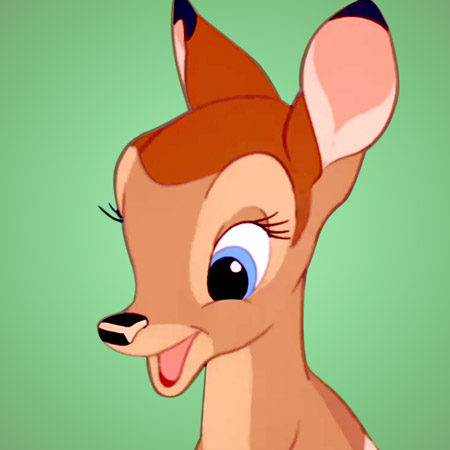
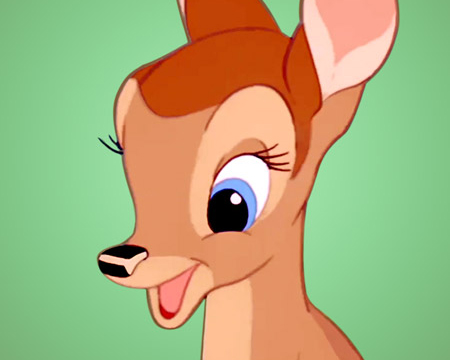
Cropped actor faces. and added the pictures to the doc/

diff --git a/christopherrobins.html b/christopherrobins.html
@@ -36,9 +36,8 @@
 			}">>
 			</div>
 			<!-- Dvd Cover -->
-			<div class="dvdcover mx-3 w-24 h-32 bg-green">
-			
-
+			<div class="dvdcover mx-3 w-24 h-32">
+				<img style="background-image: url('https://tailwindcss.com/img/card-left.jpg' src="imgs/crdvdcover.jpg">
 			</div>
 			<div class="flex bg-black flex-col w-2/3 text-white"> <!-- description -->
 				<span class="text-yellow"><h3>Christopher Robins</h3></span>
@@ -85,18 +84,22 @@
 			<span class="font-bold">Characters:</span>
 			<!-- character row -->
 			<div class="flex w-full h-12 w-auto rounded items-center underline mt-2 py-2">
-				<div class="flex bg-grey-lightest rounded-full h-12 w-12"></div> 
+				<div class="flex h-12 w-12">
+					<img class="rounded-full"src="imgs/ewan.jpg">
+				</div> 
 				<a href="#" class="text-yellow p-1">Ewan McGregor</a> |
 				<a href="#" class="text-white p-1">Christopher Robin</a>
 			</div>
 			<div class="flex w-full h-12 w-auto rounded items-center underline mt-2 py-2">
-				<div class="flex bg-grey-lightest rounded-full h-12 w-12"></div> 
-				<a href="#" class="text-yellow p-1">Hayley Atwell</a> |
+				<div class="flex h-12 w-12">
+					<img class="rounded-full"src="imgs/hayley.jpg">
+				</div> 				<a href="#" class="text-yellow p-1">Hayley Atwell</a> |
 				<a href="#" class="text-white p-1">Evelyn Robin</a>
 			</div>
 			<div class="flex w-full h-12 w-auto rounded items-center underline mt-2 py-2">
-				<div class="flex bg-grey-lightest rounded-full h-12 w-12"></div> 
-				<a href="#" class="text-yellow p-1">Jim Cummings</a> |
+				<div class="flex h-12 w-12">
+					<img class="rounded-full"src="imgs/jim.jpg">
+				</div> 				<a href="#" class="text-yellow p-1">Jim Cummings</a> |
 				<a href="#" class="text-white p-1">Winnie The Pooh (Voice)</a>
 			</div>
 			<a href="#" class="text-yellow p-1 mt-2">More</a>
@@ -118,17 +121,18 @@
 		</div>
 		<!-- Scene Selectione -->
 		<div class="bg-black flex w-screen p-4 flex-col text-white border border-b-2 border-grey-dark"> <!-- Halp why is the border broken? -->
+			<!-- todo - fix the side to side thing.-->
 			<span class="font-bold">Scene Selection:</span>
 			<div class="flex flex-wrap justify-between">
-				<div class="flex bg-grey-lightest h-32 w-64 items-center justify-center overflow-hidden rounded mt-2 relative">
+				<div class="flex bg-grey-lightest h-32 w-64 mx-auto items-center justify-center overflow-hidden rounded mt-2 relative">
 					<img class="w-full block rounded-t absolute"src="imgs/sg/sg1.png">
 					<div class="flex bg-black pin-b pin-l rounded-br-sm p-1 opacity-75 absolute"> 15:00</div>
 				</div>
-				<div class="flex bg-grey-lightest h-32 w-64 items-center justify-center overflow-hidden rounded mt-2 relative">
+				<div class="flex bg-grey-lightest h-32 w-64 mx-auto items-center justify-center overflow-hidden rounded mt-2 relative">
 					<img class="w-full block rounded-t absolute"src="imgs/sg/sg2.png">
 					<div class="flex bg-black pin-b pin-l rounded-br-sm p-1 opacity-75 absolute"> 30:00</div>
 				</div>
-				<div class="flex bg-grey-lightest h-32 w-64 items-center justify-center overflow-hidden rounded mt-2 relative">
+				<div class="flex bg-grey-lightest h-32 w-64 mx-auto items-center justify-center overflow-hidden rounded mt-2 relative">
 					<img class="w-full block rounded-t absolute"src="imgs/sg/sg3.png">
 					<div class="flex bg-black pin-b pin-l rounded-br-sm p-1 opacity-75 absolute"> 45:00</div>
 				</div>
